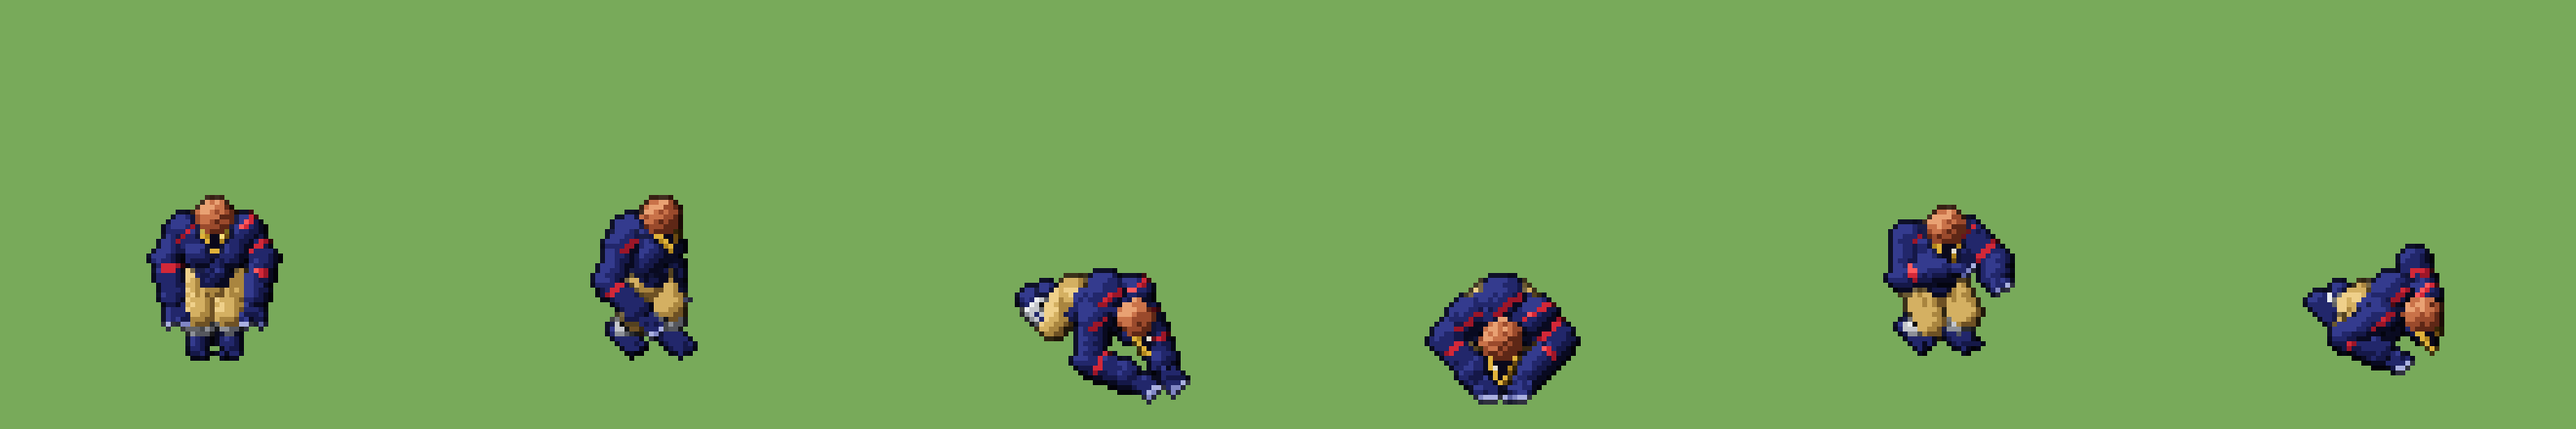
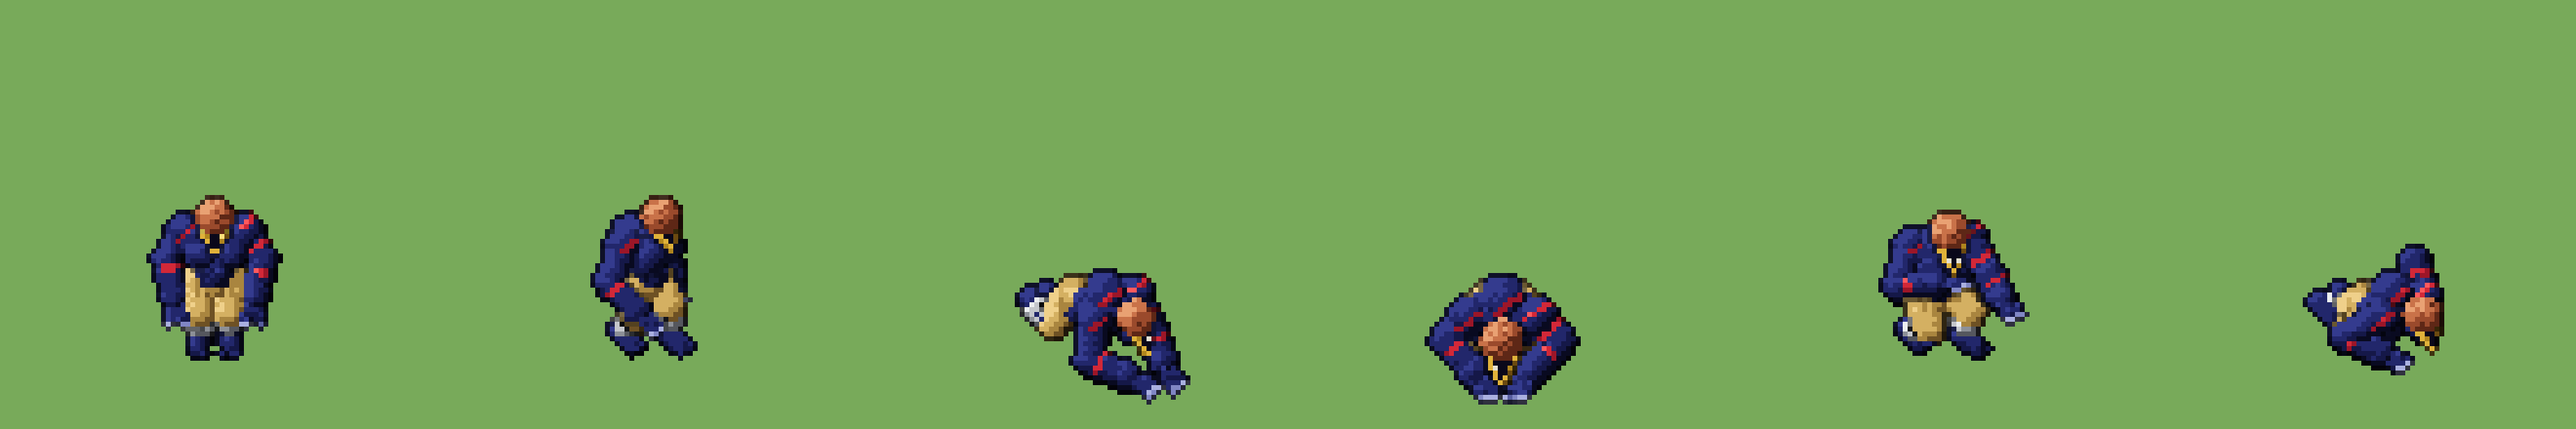
Coups en diagonale violents et rafale de poings en spammant (bras fantômes, image rémanente, coup très large)

Changed region(s): [[0.7188, 0.4848, 0.8125, 0.8485]]

diff --git a/js/nomu.js b/js/nomu.js
@@ -15,6 +15,8 @@ const EYE = ramp('#7c6a1c', '#c9b44a', '#eee298', '#fffbe0');
 const BEAK = ramp('#7a5208', '#c98f12', '#f2c230', '#ffe680');
 const BEAK_LOW = ramp('#5e3e06', '#a8760e', '#d9a924', '#f2cf5a');
 const CLAW = ramp('#3a3f78', '#585ea0', '#8086c4', '#aab0e0');
+// bras fantômes de la rafale : la peau, éclaircie (traînée de vitesse)
+const GHOST = ramp('#151848', '#2a3180', '#4a52aa', '#7c84d8');
 const MOUTH = [22, 6, 12];
 const PUPIL = [6, 4, 4];
 
@@ -26,9 +28,10 @@ export const ANIMS = {
   walk: { frames: 8, fps: 11, loop: true },
   run: { frames: 10, fps: 17, loop: true }, // galop de bête à quatre pattes
   punch: { frames: 8, fps: 18, loop: false },
-  jabL: { frames: 8, fps: 28, loop: false }, // swing du gauche, de l'extérieur vers l'intérieur
-  jabR: { frames: 8, fps: 28, loop: false }, // swing du droit
-  hook: { frames: 9, fps: 25, loop: false }, // gros crochet circulaire du gauche
+  jabL: { frames: 8, fps: 26, loop: false }, // gauche en diagonale : de haut-dehors à bas-dedans
+  jabR: { frames: 8, fps: 26, loop: false }, // droit en diagonale, en miroir
+  hook: { frames: 9, fps: 24, loop: false }, // gauche en diagonale montante, de bas-dehors à haut-dedans
+  rush: { frames: 6, fps: 26, loop: false }, // rafale quand on spamme : une nuée de bras en éventail
   pcharge: { frames: 6, fps: 12, loop: true }, // arme le gros coup
   bigpunch: { frames: 10, fps: 18, loop: false }, // gros coup qui souffle tout devant
   charge: { frames: 8, fps: 10, loop: true }, // accroupi sur les coudes, il gonfle
@@ -290,25 +293,60 @@ export function poseFor(anim, t) {
     ], t);
   }
   if (anim === 'jabL' || anim === 'jabR' || anim === 'hook') {
-    // Grands swings : le bras part loin sur le côté, balaie en arc vers l'intérieur
-    // et finit en croisant devant lui ; les hanches et le buste tournent avec.
-    const big = anim === 'hook';
+    // Frappes en diagonale, violentes : le bras part de très loin, traverse devant lui et finit
+    // de l'autre côté ; les hanches et le buste vissent dans le sens du coup, la gueule s'ouvre.
+    // jabL / jabR : de haut-dehors (au-dessus de l'épaule) vers bas-dedans. hook : l'inverse,
+    // de bas-dehors vers haut-dedans. Les trois enchaînés dessinent un X.
+    const up = anim === 'hook';
     const m = anim === 'jabR' ? -1 : 1; // miroir gauche/droite
-    const k = big ? 1.25 : 1;
     const mir = (v) => [v[0] * m, v[1], v[2]];
     const guard = { fL: [-4.5, 3, 0], fR: [4.5, -3, 0], hL: [-5, 9, 31], hR: [5, 7, 30], crouch: 2.5, lean: 2, jaw: 0.4 };
     if (m < 0) { guard.fL = [-4.5, -3, 0]; guard.fR = [4.5, 3, 0]; }
     const arm = m > 0 ? 'hL' : 'hR', other = m > 0 ? 'hR' : 'hL';
-    const off = mir([6, 7, 31]);
+    const off = mir([7, 5, 28]);
+    const front = m > 0 ? 'fL' : 'fR', back = m > 0 ? 'fR' : 'fL';
     const pose = (hand, tw, ht, extra = {}) => ({ ...guard, [arm]: mir(hand), [other]: off, twist: tw * m, hipTwist: ht * m, ...extra });
+    if (!up) {
+      return keyed([
+        { t: 0, p: guard },
+        // armé : le poing monte haut au-dessus de l'épaule, loin derrière, le buste se tord
+        { t: 0.22, p: pose([-15, -3, 47], 0.55, 0.3, { crouch: 1.5, lean: 0, jaw: 0.7, [front]: mir([-4.5, 5, 1.5]) }) },
+        // impact : il plonge de tout son poids, le poing en travers devant lui
+        { t: 0.42, p: pose([-2, 22, 27], -0.5, -0.3, { crouch: 4, lean: 5.5, jaw: 1.4, [front]: mir([-4.5, 7, 0]), [back]: mir([4.5, -5, 1]) }) },
+        // le bras finit bas, de l'autre côté
+        { t: 0.62, p: pose([11, 13, 11], -0.85, -0.45, { crouch: 5, lean: 6, jaw: 1, [front]: mir([-4.5, 7, 0]), [back]: mir([4.5, -5, 1]) }) },
+        { t: 1, p: guard },
+      ], t);
+    }
     return keyed([
       { t: 0, p: guard },
-      { t: 0.2, p: pose([-17 * k, -1, big ? 25 : 28], 0.4 * k, 0.25, { crouch: big ? 4.5 : 3, lean: 1 }) }, // armé loin dehors
-      { t: 0.32, p: pose([-14 * k, 13, big ? 29 : 31], 0.05, 0.05, { lean: 3 }) }, // l'arc
-      { t: 0.44, p: pose([-1, 21, 32], -0.6 * k, -0.35 * k, { lean: 4.5, jaw: 1, [m > 0 ? 'fR' : 'fL']: mir([4.5, -4, 1.5]) }) }, // impact
-      { t: 0.62, p: pose([9 * k, 14, 29], -0.8 * k, -0.45 * k, { lean: 3.5, jaw: 0.8 }) }, // le bras traverse
+      // armé bas : accroupi, le poing tiré loin dehors au ras des genoux
+      { t: 0.22, p: pose([-16, 3, 10], 0.5, 0.3, { crouch: 7, lean: 3, jaw: 0.6 }) },
+      // impact : il se déplie d'un coup, le poing monte en travers
+      { t: 0.44, p: pose([-1, 21, 33], -0.55, -0.35, { crouch: 1, lean: 4, lift: 1.5, jaw: 1.4, [front]: mir([-4.5, 6, 0]), [back]: mir([4.5, -4, 2]) }) },
+      // il finit étiré, le poing tout en haut de l'autre côté
+      { t: 0.64, p: pose([10, 11, 49], -0.9, -0.5, { crouch: 0, lean: 1.5, lift: 2.5, headUp: 1.5, jaw: 1.1, [front]: mir([-4.5, 6, 0]), [back]: mir([4.5, -4, 3]) }) },
       { t: 1, p: guard },
     ], t);
+  }
+  if (anim === 'rush') {
+    // Rafale : penché en avant, il mitraille en éventail. Les deux vrais bras frappent en
+    // alternance, et des bras fantômes (déjà partis ou pas encore revenus) remplissent l'éventail
+    // pour donner la vitesse. Chaque frame montre l'éventail à un autre moment.
+    const p = basePose();
+    const fist = (a, k) => [Math.sin(a) * 22, 9 + Math.cos(a) * 16 + k * 2, 28 + Math.cos(a * 1.6 + k) * 8];
+    const ph = t * Math.PI * 2;
+    const aL = -0.2 - Math.abs(Math.sin(ph)) * 1.0, aR = 0.2 + Math.abs(Math.cos(ph)) * 1.0;
+    p.hL = fist(aL, 1); p.hR = fist(aR, 1);
+    p.fL = [-5, 5, 0]; p.fR = [5, -4, 0];
+    p.crouch = 3.5; p.lean = 4.5 + Math.sin(ph * 2) * 0.6; p.jaw = 1.3 + Math.sin(ph * 3) * 0.2;
+    p.twist = Math.sin(ph) * 0.22; p.hipTwist = Math.sin(ph) * 0.1; p.bob = Math.sin(ph * 2) * 0.4;
+    p.ghosts = [];
+    for (let i = 0; i < 4; i++) {
+      const a = -1.3 + ((i + t * 4) % 4) * 0.87; // 4 poings répartis de -75° à +75°, qui tournent
+      p.ghosts.push({ side: a < 0 ? -1 : 1, h: fist(a, 0) });
+    }
+    return p;
   }
   if (anim === 'pcharge') {
     // En position : jambes fléchies, poing droit tiré loin en arrière, le corps tremble et gonfle.
@@ -452,6 +490,17 @@ export function nomuParts(P) {
         tex: (p) => (p.t > 0.6 ? CLAW[Math.min(3, p.shade + 1)] : p.shade) });
     }
   }
+
+  // --- bras fantômes de la rafale : seulement avant-bras et poing (sinon tout s'empile sur le
+  // torse), plus clairs, griffes claires devant : une nuée de poings en éventail ---
+  (P.ghosts || []).forEach((gh, i) => {
+    const hand = pitch(add(gh.h, ub)), side = gh.side;
+    const sh = U([side * 8.2, -1, 34.5]);
+    const elbow = ik(sh, hand, 11, 10.5, [side * 0.7, -0.7, -0.2]);
+    const g = 20 + i;
+    parts.push({ a: lerpV(elbow, hand, 0.25), b: hand, r1: 2.5, r2: 2.8, ramp: GHOST, group: g });
+    parts.push({ a: hand, r1: 3.2, ramp: GHOST, group: g, tex: (p) => (p.ny > 0.45 ? CLAW[3] : Math.min(3, p.shade + 1)) });
+  });
 
   // --- tête enfoncée entre les épaules : gros cerveau, petits yeux, bec doré en V ---
   // à quatre pattes, la tête sort devant les épaules au lieu de rester enfoncée

diff --git a/js/main.js b/js/main.js
@@ -766,14 +766,18 @@ function healGround(dt) {
 }
 
 // Enchaînement de boxeur : direct gauche, direct droit, crochet, et ça recommence.
-const JABS = ['jabL', 'jabR', 'hook'];
-const HIT_AT = { jabL: 0.44, jabR: 0.44, hook: 0.44, bigpunch: 0.22, slam: 0.44, sniff: 0.6, eat: 9, hurt: 9 };
+// Enchaînement : 3 frappes en diagonale (gauche, droite, montante), puis si on continue de
+// spammer, la rafale (`rush`) en boucle tant que les coups arrivent.
+const JABS = ['jabL', 'jabR', 'hook', 'rush'];
+const HIT_AT = { jabL: 0.44, jabR: 0.44, hook: 0.44, rush: 0.5, bigpunch: 0.22, slam: 0.44, sniff: 0.6, eat: 9, hurt: 9 };
 let hitstop = 0; // arrêt sur image après un gros impact
 const CHOMPS = [0.22, 0.35, 0.48, 0.61, 0.74]; // bouchées pendant qu'il dévore
 
 function startJab() {
   if (!JABS.includes(player.action) && time - player.lastPunch > 0.45) player.combo = 0; // trop lent : on repart du direct gauche
-  const a = JABS[player.combo % JABS.length];
+  // la rafale ne part que si on spamme vraiment : appui pendant le coup précédent ou juste après
+  if (player.combo >= 3 && !JABS.includes(player.action) && time - player.lastPunch > 0.15) player.combo = 0;
+  const a = JABS[Math.min(player.combo, 3)];
   player.combo++;
   player.punchBuf = false;
   startAction(a);
@@ -802,6 +806,44 @@ function doPunchHit(strong) {
   const gz = player.z;
   if (best) { damage(best[0], best[1], Math.round((strong ? 2 : 1) * strength())); shake = Math.max(shake, strong ? 2.5 : 1.5); }
   else { burst(hx, hy, gz + 18, ['#ffffff', '#d8e0f0'], 5, { up: 10, g: 0, life: 0.25, speed: 1.2 }); sfx.punchAir(); }
+}
+
+// Rafale : chaque salve balaie un très large éventail (±110°, 1.7 tuile : les bras vont jusque
+// sur les côtés, et il avance à chaque salve) et touche tout ce qui s'y trouve, gens comme décor.
+// Des traînées blanches partent en éventail.
+const RUSH_R = 1.7, RUSH_COS = -0.34;
+function doRushHit() {
+  const [dx, dy] = dirWorld(player.dir);
+  const inFan = (x, y) => {
+    const rx = x - player.x, ry = y - player.y, d = Math.hypot(rx, ry);
+    return d < RUSH_R && (d < 0.4 || (rx * dx + ry * dy) / d > RUSH_COS);
+  };
+  let hit = false;
+  for (const n of npcs) {
+    if (n.inside || !alive(n) || !inFan(n.x, n.y)) continue;
+    const rx = n.x - player.x, ry = n.y - player.y, d = Math.hypot(rx, ry) || 1;
+    hitNpc(n, strength(), rx / d, ry / d, 0.12);
+    hit = true;
+  }
+  for (let ty = Math.floor(player.y) - 2; ty <= Math.floor(player.y) + 2; ty++) {
+    for (let tx = Math.floor(player.x) - 2; tx <= Math.floor(player.x) + 2; tx++) {
+      const info = OBJ_INFO[world.objAt(tx, ty)];
+      if (!info || info.part || info.building || !inFan(tx + 0.5, ty + 0.5)) continue;
+      damage(tx, ty, info.small ? 1 : Math.max(1, Math.round(strength())));
+      if (!info.small) hit = true;
+    }
+  }
+  shake = Math.max(shake, hit ? 2.2 : 1.2);
+  const base = Math.atan2(dy, dx);
+  for (let i = 0; i < 14; i++) {
+    const a = base + (Math.random() * 2 - 1) * 1.2, sp = 5 + Math.random() * 4;
+    particles.push({
+      x: player.x + Math.cos(a) * 0.4, y: player.y + Math.sin(a) * 0.4, z: player.z + 14 + Math.random() * 14,
+      vx: Math.cos(a) * sp, vy: Math.sin(a) * sp, vz: (Math.random() - 0.5) * 8, g: 0, drag: 2,
+      life: 0.15 + Math.random() * 0.15, col: Math.random() < 0.7 ? '#ffffff' : '#d8ecff', size: 1, streak: true,
+    });
+  }
+  if (!hit) sfx.punchAir();
 }
 
 // En sprint, Brainless pulvérise tout ce qui se trouve devant lui.
@@ -1112,7 +1154,8 @@ function update(dt) {
       const hitAt = HIT_AT[act] ?? 0.4;
       if (act === 'eat') for (const c of CHOMPS) if (prev < c && player.actionT >= c) chomp();
       if (prev < hitAt && player.actionT >= hitAt) {
-        if (JABS.includes(act)) doPunchHit(act === 'hook');
+        if (act === 'rush') doRushHit();
+        else if (JABS.includes(act)) doPunchHit(act === 'hook');
         else if (act === 'sniff') doSniff();
         else if (act === 'eat' || act === 'hurt') { /* rien à frapper */ }
         else if (act === 'bigpunch') doBigPunch(player.punchPower);
@@ -2356,7 +2399,8 @@ function doSniff() {
 }
 
 function startAction(a) {
-  if (JABS.includes(a)) sfx.jab(a === 'hook');
+  if (a === 'rush') sfx.rush();
+  else if (JABS.includes(a)) sfx.jab(a === 'hook');
   player.action = a;
   player.actionT = 0;
   player.anim = a;
@@ -2707,7 +2751,15 @@ function drawPlayer(ox, oy, withShadow) {
     img = nomu.jump[player.dir][Math.floor(u * ANIMS.jump.frames)];
   } else if (player.action) {
     const A = ANIMS[player.action];
-    img = nomu[player.action][player.dir][Math.min(A.frames - 1, Math.floor(player.actionT * A.frames))];
+    const f = Math.min(A.frames - 1, Math.floor(player.actionT * A.frames));
+    img = nomu[player.action][player.dir][f];
+    if (player.action === 'rush' && withShadow && !player.water) {
+      // image rémanente : la frame d'en face, en transparence, double la nuée de poings
+      const ghost = nomu.rush[player.dir][(f + 3) % A.frames];
+      ctx.globalAlpha = 0.35;
+      draw(ghost, sx - ghost.ox, sy - gz - jz - ghost.oy);
+      ctx.globalAlpha = 1;
+    }
   } else {
     const A = ANIMS[player.anim];
     img = nomu[player.anim][player.dir][Math.floor(player.t) % A.frames];
@@ -3152,7 +3204,7 @@ function updateMenu(dt) {
   if (location.hash === '#debug') {
     window.BRAINLESS = { get world() { return world; }, player, startWorld, createWorld, listWorlds, quitToMenu, get mode() { return mode; }, stats, O, T, decals, particles, npcs, damage, hurtPlayer,
       vstate, crime, killNpc, hitNpc, nearestPrey, get scent() { return scent; },
-      get tod() { return tod; }, set tod(v) { tod = v; }, weather, spawnBeast, gainEvo, has, pages, blockedFor, freeSpot, OBJ_INFO, overlapping, crackTile, craterTile, doSlam, doBigPunch };
+      get tod() { return tod; }, set tod(v) { tod = v; }, weather, spawnBeast, gainEvo, has, pages, blockedFor, freeSpot, OBJ_INFO, overlapping, crackTile, craterTile, doSlam, doBigPunch, doRushHit };
   }
   await loadAssets();
   loading.style.display = 'none';

diff --git a/js/audio.js b/js/audio.js
@@ -240,6 +240,12 @@ export const sfx = {
     noise({ f, f2: f * 3, q: 1.6, gain: hook ? 0.3 : 0.22, a: 0.03, dec: hook ? 0.15 : 0.1 });
     tone({ f: hook ? 130 : 160, f2: 110, type: 'sawtooth', gain: 0.05, dec: 0.08, lp: 600 }); // souffle du boxeur
   },
+  rush() {
+    // rafale : trois souffles très courts qui se chevauchent, un claquement sourd
+    if (!ready() || !gate('rush', 0.05)) return;
+    for (let i = 0; i < 3; i++) noise({ f: rnd(900, 1400), f2: rnd(2500, 3500), q: 1.4, gain: 0.16, a: 0.01, dec: 0.05, delay: i * 0.06 });
+    tone({ f: 120, f2: 70, gain: 0.12, dec: 0.07, delay: 0.04 });
+  },
   bigPunch(power) {
     if (!ready()) return;
     noise({ f: 300, f2: 3000, q: 1, gain: 0.5, a: 0.05, dec: 0.15 }); // le bras fend l'air

diff --git a/sw.js b/sw.js
@@ -1,7 +1,7 @@
 // Cache hors-ligne : le jeu marche même sans réseau une fois ouvert.
 // Change VERSION à chaque mise à jour pour forcer le rafraîchissement (`node tools/bump.mjs`,
 // qui met aussi à jour le numéro affiché à l'accueil dans js/version.js).
-const VERSION = 'brainless-v21';
+const VERSION = 'brainless-v22';
 const FILES = [
   './', './index.html', './manifest.webmanifest',
   './js/main.js', './js/world.js', './js/noise.js', './js/raster.js', './js/nomu.js', './js/sprites.js', './js/font.js', './js/audio.js', './js/pad.js', './js/buildings.js', './js/people.js', './js/saves.js', './js/menu.js', './js/beasts.js', './js/version.js',

diff --git a/js/version.js b/js/version.js
@@ -1,3 +1,3 @@
 // Numéro de version affiché sur l'écran d'accueil. Toujours le même que VERSION dans sw.js :
 // on les change ensemble avec `node tools/bump.mjs`.
-export const VERSION = 21;
+export const VERSION = 22;

diff --git a/README.md b/README.md
@@ -13,7 +13,7 @@ s'installe sur l'écran d'accueil (PWA, marche hors-ligne).
 - **iPhone** : ouvrir l'URL GitHub Pages dans Safari → Partager → *Sur l'écran d'accueil*.
 - Pouce gauche : joystick pour marcher (debout).
 - **>> SPRINT** (maintenir) : galop de bête à quatre pattes qui pulvérise arbres et rochers, fait trembler l'écran et vide la barre de sprint.
-- **A COUP** : tapoter = enchaînement de boxeur (direct gauche, direct droit, crochet). Maintenir = il se met en position et arme un gros coup qui souffle tout devant lui au relâchement ; pendant la charge, le joystick le fait pivoter sur place pour viser (un cône en pointillés montre la zone touchée). **^ SAUT** : saut (permet de grimper une marche de plus).
+- **A COUP** : tapoter = trois frappes en diagonale (gauche, droite, montante) ; continuer à spammer = **rafale**, une nuée de poings qui balaie tout devant et sur les côtés. Maintenir = il se met en position et arme un gros coup qui souffle tout devant lui au relâchement ; pendant la charge, le joystick le fait pivoter sur place pour viser (un cône en pointillés montre la zone touchée). **^ SAUT** : saut (permet de grimper une marche de plus).
 - **B CHARGE** (maintenir) : il se met sur les coudes et gonfle ; au relâchement il lève les bras et frappe le sol. Plus la charge est longue, plus la zone détruite est grande.
 - Les boutons se combinent en glissant : pars de SPRINT et glisse sur SAUT ou COUP, il saute ou frappe sans arrêter de sprinter.
 - Demi-tour en plein sprint : il dérape et laisse des traces ; lâcher le sprint en pleine course : il freine.

diff --git a/CLAUDE.md b/CLAUDE.md
@@ -100,7 +100,10 @@ rouges sont **peu nombreuses mais épaisses** (épaule, dos, un avant-bras).
   les 8 directions au chargement. Rien d'autre à brancher pour le rendu.
 - **Esprit des mouvements** : une **bête**, organique et sauvage, jamais robotique.
   - Grandes amplitudes, le poids qui bascule, les hanches qui tournent.
-  - Bras qui vont loin (galop étiré/ramassé, swings de l'extérieur vers l'intérieur).
+  - Bras qui vont loin (galop étiré/ramassé, frappes en diagonale qui traversent tout le corps).
+  - Coups (`jabL jabR hook`) : diagonales violentes, de haut-dehors à bas-dedans puis une montante ;
+    en spammant, la rafale `rush` : bras fantômes (`P.ghosts`, rampe `GHOST`, avant-bras + poing
+    seulement) en éventail, image rémanente en jeu, coup dans un éventail de ±110° (`doRushHit`).
   - Gueule qui s'ouvre (`jaw`) à l'effort.
   - Marche debout ; sprint à quatre pattes.
 
